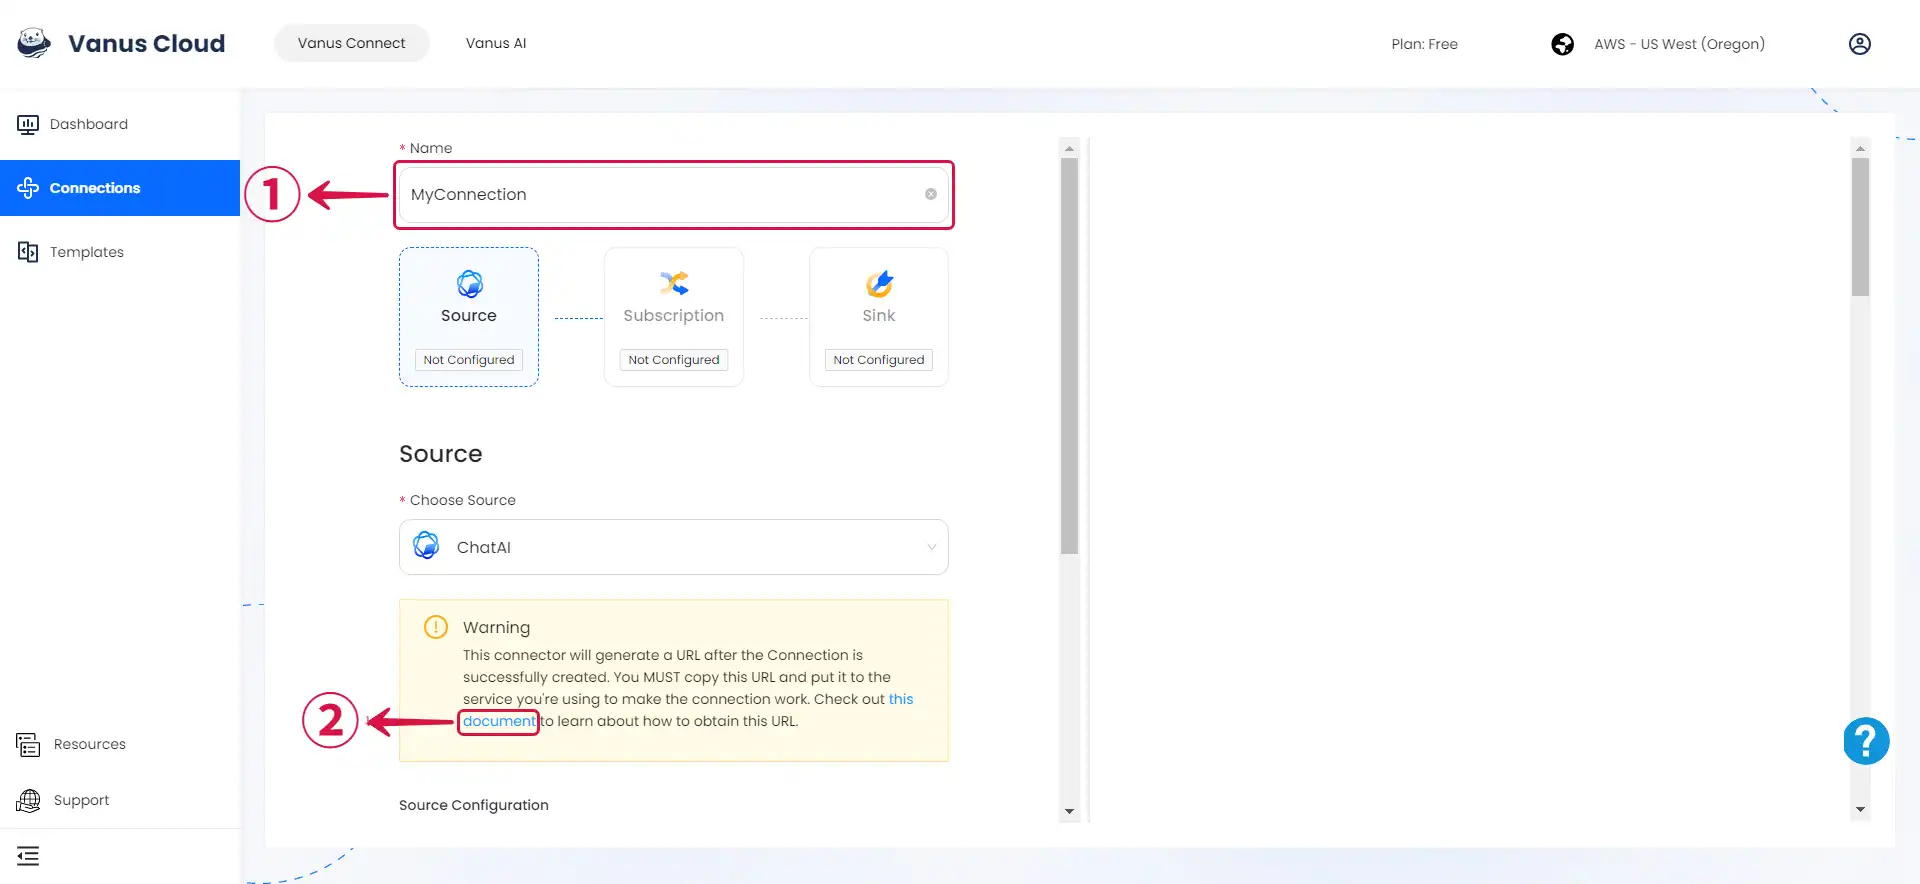
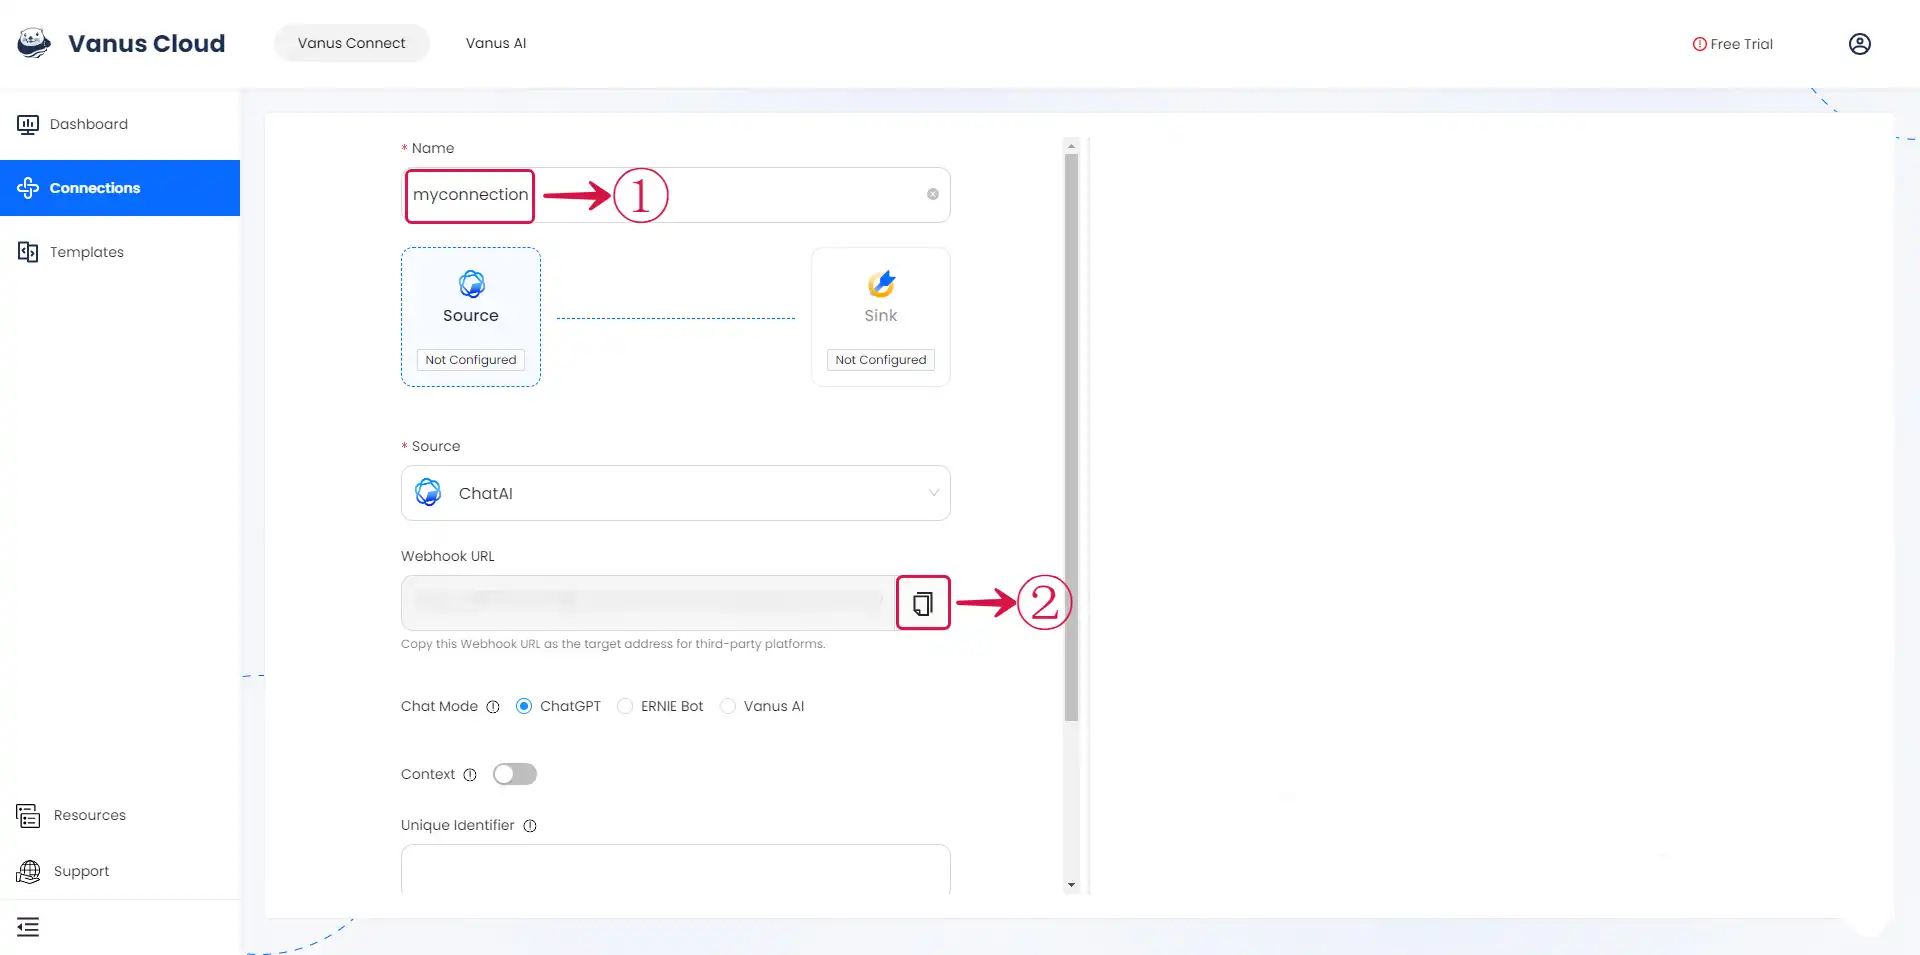
Docs: Update ChatAI Source (#704)

diff --git a/content/vanus-connect/connector-guides/source/chatai/setup.md b/content/vanus-connect/connector-guides/source/chatai/setup.md
@@ -19,11 +19,11 @@ Before obtaining ChatAI events, you must have:
 
 ### Set up your connection in Vanus Connect
 
-1. "Write a **Name**① for your connection in Vanus Connect.
+1. Write a **Name**① for your connection in Vanus Connect.
+
+    Click on the **copy**② icon to copy the Webhook URL.
 
 ![chatai-source-1](images/chatai-source-1.webp)
-
-After creating the connection, proceed to click the **document link**② to open a new page with all the details on how to complete the connection.
 
 2. Fill in the various required configurations.
 
@@ -50,6 +50,19 @@ By choosing "Vanus AI," you can harness the power of your custom AI application 
 - Select **Vanus AI**⑩, paste your **Vanus AI Application ID**⑪ in the provided field, fill in the remaining **configuration details⑫ (optional)**, and then proceed by clicking **Next**⑬.
 
 ![chatai-source-4](images/chatai-source-4.webp)
+
+### How to Use the Webhook URL to Send Message to ChatAI
+
+Ask a question to ChatAI by sending a POST Request to the Webhook URL. Below I will share with you how to send a simple curl Post Request to the address.
+
+Here is an Example of a curl Post Request of a CloudEvent.
+```shell
+curl \
+-H "unique_identifier:value"  \
+-H "Authorization: Basic base64(yourusername:yourpassword)"
+-XPOST 'https://YourWebbookURL' \
+-D'What is CloudEvents?'
+```
 
 ---
 

diff --git a/content/cloud-docs/source/chatai/setup.md b/content/cloud-docs/source/chatai/setup.md
@@ -14,11 +14,11 @@ hide_title: true
 
 ### ChatAI Connection Settings
 
-1. "Write a **Name**① for your connection in Vanus Connect.
+1. Write a **Name**① for your connection in Vanus Connect.
+
+    Click on the **copy**② icon to copy the Webhook URL.
 
 ![chatai-source-1](images/chatai-source-1.webp)
-
-After creating the connection, proceed to click the **document link**② to open a new page with all the details on how to complete the connection.
 
 2. Fill in the various required configurations.
 
@@ -47,10 +47,6 @@ By choosing "Vanus AI," you can harness the power of your custom AI application 
 ![chatai-source-4](images/chatai-source-4.webp)
 
 ### How to Use the Webhook URL to Send Message to ChatAI
-
-- Click the **copy icon**① to copy the webhook URL.
-
-![chatai-source-5](images/chatai-source-5.webp)
 
 Ask a question to ChatAI by sending a POST Request to the Webhook URL. Below I will share with you how to send a simple curl Post Request to the address.
 
